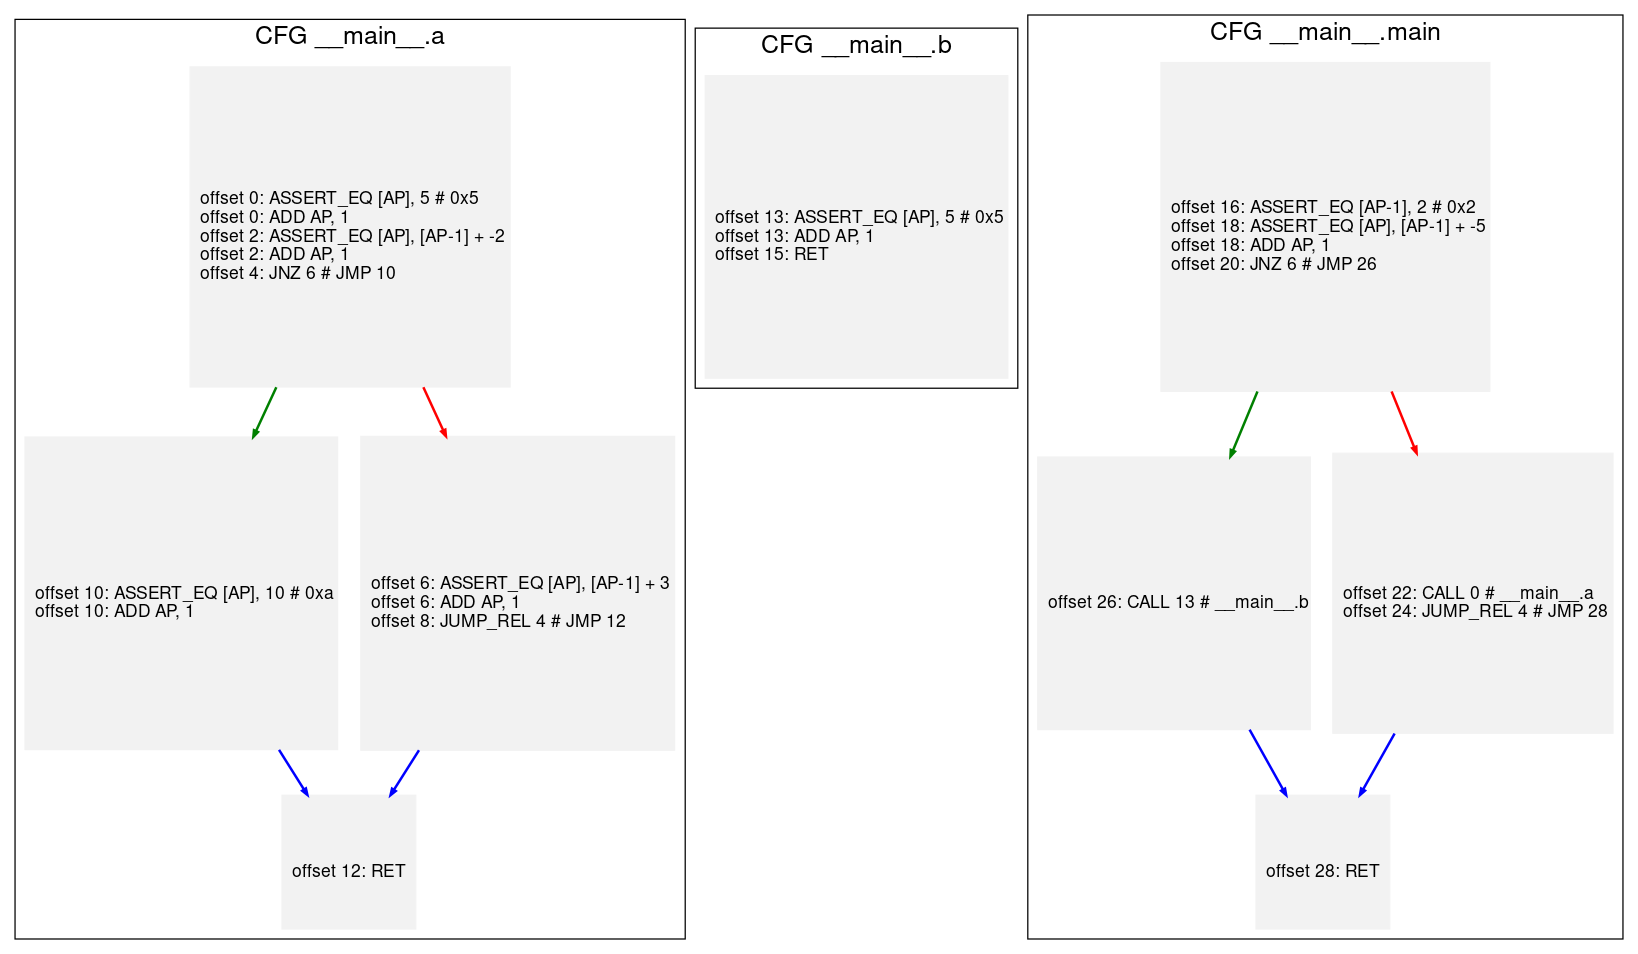
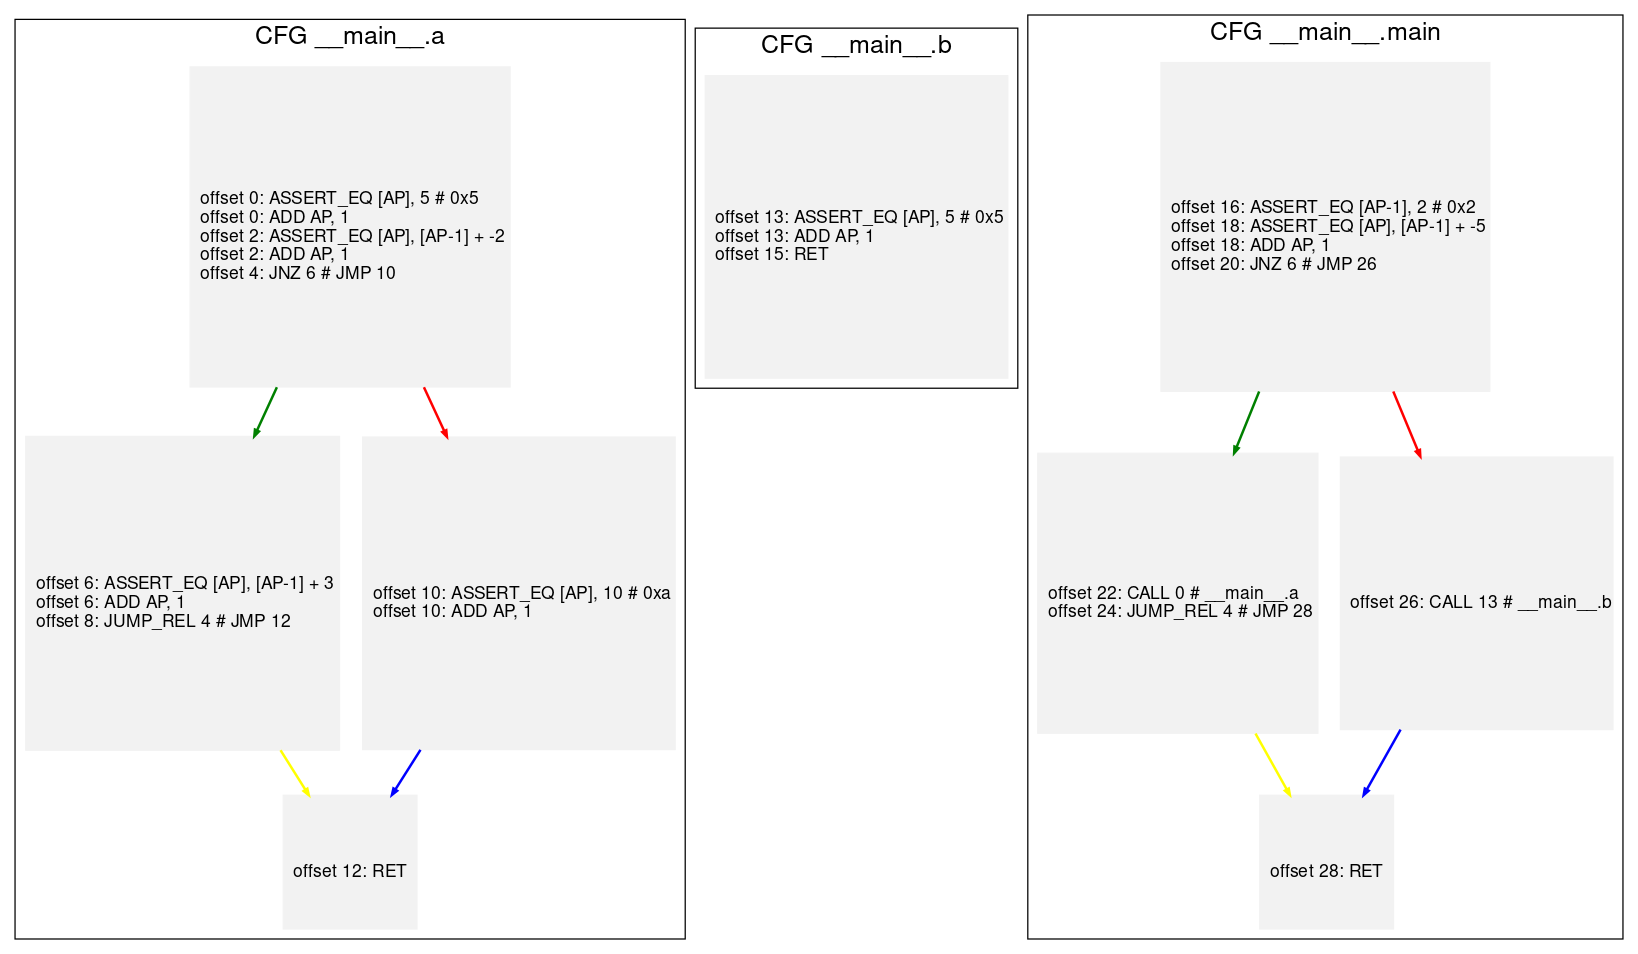
Minor fixes and README edit

diff --git a/tests/test.py b/tests/test.py
@@ -20,7 +20,7 @@ class TestDisassembler(unittest.TestCase):
         for test in all_test:
             try:
                 with open(test, "r") as file:
-                    disassembler = Disassembler([file])
+                    disassembler = Disassembler(file)
                     disassembler.print_disassembly()
                     filename = os.path.basename(file.name).split(".")[0]
                     format = "pdf"
@@ -46,7 +46,7 @@ class TestDisassembler(unittest.TestCase):
         test_cairo_return
         """
         with open("./tests/json_files/cairo_return.json", "r") as file:
-            disassembler = Disassembler([file])
+            disassembler = Disassembler(file)
         analytics = disassembler.analytics()
         self.assertEqual(analytics["entry_point"], ["__main__.main"])
         self.assertEqual(analytics["functions"], "2")
@@ -59,7 +59,7 @@ class TestDisassembler(unittest.TestCase):
         test_cairo_all_builtins
         """
         with open("./tests/json_files/cairo_all_builtins.json", "r") as file:
-            disassembler = Disassembler([file])
+            disassembler = Disassembler(file)
         analytics = disassembler.analytics()
         self.assertEqual(analytics["entry_point"], ["__main__.main"])
         self.assertEqual(analytics["functions"], "1")
@@ -72,7 +72,7 @@ class TestDisassembler(unittest.TestCase):
         test_cairo_direct_and_indirect_recursion
         """
         with open("./tests/json_files/cairo_direct_and_indirect_recursion.json", "r") as file:
-            disassembler = Disassembler([file])
+            disassembler = Disassembler(file)
         analytics = disassembler.analytics()
         self.assertEqual(analytics["entry_point"], ["__main__.main"])
         self.assertEqual(analytics["functions"], "5")
@@ -85,7 +85,7 @@ class TestDisassembler(unittest.TestCase):
         test_cairo_struct
         """
         with open("./tests/json_files/cairo_struct.json", "r") as file:
-            disassembler = Disassembler([file])
+            disassembler = Disassembler(file)
         analytics = disassembler.analytics()
         self.assertEqual(analytics["entry_point"], ["__main__.main"])
         self.assertEqual(analytics["functions"], "1")
@@ -97,7 +97,7 @@ class TestDisassembler(unittest.TestCase):
     def test_cairo_puzzle(self):
         """test_cairo_puzzle"""
         with open("./tests/json_files/cairo_puzzle.json", "r") as file:
-            disassembler = Disassembler([file])
+            disassembler = Disassembler(file)
         analytics = disassembler.analytics()
         self.assertEqual(analytics["entry_point"], ["__main__.main"])
         self.assertEqual(analytics["functions"], "18")
@@ -111,7 +111,7 @@ class TestDisassembler(unittest.TestCase):
         test_starknet_decorators3
         """
         with open("./tests/json_files/starknet_decorators3.json", "r") as file:
-            disassembler = Disassembler([file])
+            disassembler = Disassembler(file)
         analytics = disassembler.analytics()
         self.assertEqual(
             analytics["entry_point"],
@@ -138,7 +138,7 @@ class TestDisassembler(unittest.TestCase):
         test_starknet_l1_default
         """
         with open("./tests/json_files/starknet_l1_default.json", "r") as file:
-            disassembler = Disassembler([file])
+            disassembler = Disassembler(file)
         analytics = disassembler.analytics()
         self.assertEqual(
             analytics["entry_point"],
@@ -173,7 +173,7 @@ class TestDisassembler(unittest.TestCase):
     def test_starknet_get_code_l2_dai_bridge(self):
         """test_starknet_get_code_l2_dai_bridge"""
         with open("./tests/json_files/starknet_get_code_l2_dai_bridge.json", "r") as file:
-            disassembler = Disassembler([file])
+            disassembler = Disassembler(file)
         analytics = disassembler.analytics()
         self.assertEqual(analytics["entry_point"], ["unknown_function"])
         self.assertEqual(analytics["functions"], "1")

diff --git a/thoth/app/cfg/cfg.py b/thoth/app/cfg/cfg.py
@@ -20,7 +20,7 @@ class Edge:
         Args:
             source (String): Offset of last instruction of the current block
             destination (String): Offset of first instruction of the following block
-            type (String): Type of the edge 
+            type (String): Type of the edge
         """
         self.source = source
         self.destination = destination
@@ -183,23 +183,27 @@ class CFG:
             # JNZ
             elif "JNZ" in instruction.pcUpdate:
                 current_basic_block.edges_offset.append(
-                    Edge(int(instruction.id), str(int(instruction.id) + imm), EDGE_CONDITIONAL_TRUE)
-                )
-                current_basic_block.edges_offset.append(
                     Edge(
                         int(instruction.id),
                         str(int(instruction.id) + int(2)),
-                        EDGE_CONDITIONAL_FALSE,
+                        EDGE_CONDITIONAL_TRUE,
+                    )
+                )
+                current_basic_block.edges_offset.append(
+                    Edge(
+                        int(instruction.id), str(int(instruction.id) + imm), EDGE_CONDITIONAL_FALSE
                     )
                 )
             # End of block
             elif i < (len(instructions) - 1):
-                if int(instructions[i + 1].id) in basic_blocks_starts:
+                if (
+                    int(instructions[i + 1].id) in basic_blocks_starts
+                    and phi_node_block is not None
+                ):
                     current_basic_block.edges_offset.append(
                         Edge(int(instruction.id), phi_node_block, EDGE_FALLTHROUGH)
                     )
             new_basic_block = False
-
         # Append the last basic block to the list
         list_basic_block.append(current_basic_block)
         self.set_basicblocks(list_basic_block)

diff --git a/thoth/app/arguments.py b/thoth/app/arguments.py
@@ -15,17 +15,20 @@ def parse_args() -> argparse.Namespace:
         formatter_class=argparse.ArgumentDefaultsHelpFormatter,
     )
 
-    # Use a JSON File
-    contract_subparser = parser.add_subparsers(help="Load cairo", dest="contract")
+    contract_subparser = parser.add_subparsers(
+        help="Load a cairo contract compilation artifact from a file or from starknet",
+        dest="contract",
+        required=True,
+    )
+    # Use a JSON file
     file = contract_subparser.add_parser("file")
     file.add_argument(
         "-path",
         "-path",
         "--path",
-        metavar="file",
         type=argparse.FileType("r"),
         required=True,
-        help="Cairo compiler JSON",
+        help="Cairo compiled JSON file",
     )
 
     # Download a contract from StarkNet mainnet/goerli
@@ -34,7 +37,6 @@ def parse_args() -> argparse.Namespace:
         "-a",
         "-address",
         "--address",
-        metavar="address",
         required=True,
         help="address of the contract e.g 0x111111111111111111111111111111111111111111111111111111111111111",
     )
@@ -42,7 +44,6 @@ def parse_args() -> argparse.Namespace:
         "-n",
         "-network",
         "--network",
-        metavar="network",
         choices=["mainnet", "goerli"],
         required=True,
         help="Network of the contract, mainnet or goerli",
@@ -108,7 +109,7 @@ def parse_args() -> argparse.Namespace:
         "--function",
         type=str,
         required=False,
-        help="Print disassembler/decompiler with color",
+        help="Analyse a specific function",
     )
     m.add_argument(
         "-a",

diff --git a/thoth/thoth.py b/thoth/thoth.py
@@ -25,14 +25,14 @@ def main() -> int:
     # Load compiled contract from starknet API
     else:
         try:
-            contract = StarkNet(args.network).get_full_contract(args.adress)
+            contract = StarkNet(args.network).get_full_contract(args.address)
         except Exception as e:
             print(e)
             exit()
         file = tempfile.NamedTemporaryFile()
         with open(file.name, "w") as f:
             f.write(contract)
-        filename = args.adress
+        filename = args.address
 
     disassembler = Disassembler(file, color=args.color)
 

diff --git a/thoth/app/decompiler/decompiler.py b/thoth/app/decompiler/decompiler.py
@@ -236,6 +236,7 @@ class Decompiler:
                             args += len(function.implicitargs)
                 args_str = ""
                 while args != 0:
+                    phi_node_variables = []
                     # Generate the phi function representation
                     if self.current_basic_block.is_phi_node and not self.first_pass:
                         phi_node_variables = self.get_phi_node_variables()

diff --git a/thoth/app/starknet/starknet.py b/thoth/app/starknet/starknet.py
@@ -34,6 +34,6 @@ class StarkNet:
         # If the contract does not exist
         if full_contract.status_code != 200:
             raise ValueError(
-                f"Thoth could not find contract at adress {contract_adress} in {self.network} network"
+                f"Thoth could not find contract at address {contract_adress} in {self.network} network"
             )
         return full_contract.text

diff --git a/README.md b/README.md
@@ -17,15 +17,22 @@ thoth -h
 
 ## Disassemble the contract's compilation artifact (json)
 
+#### From a JSON file
 
 ```sh
-thoth -f tests/json_files/cairo_array_sum.json
+thoth file -p tests/json_files/cairo_array_sum.json
+```
+
+#### From starknet 
+
+```sh
+thoth starknet --address 0x0323D18E2401DDe9aFFE1908e9863cbfE523791690F32a2ff6aa66959841D31D --network mainnet
 ```
 
 To get a pretty colored version:
 
 ```sh
-thoth -f tests/json_files/cairo_array_sum.json -color
+thoth -color file -p tests/json_files/cairo_array_sum.json
 ```
 <p align="center">
 	<img src="/images/thoth_disas_color.png"/>
@@ -33,14 +40,14 @@ thoth -f tests/json_files/cairo_array_sum.json -color
 
 To get a verbose version with more details about decoded bytecodes:
 ```sh
-thoth -f tests/json_files/cairo_array_sum.json -vvv
+thoth -vvv file -p tests/json_files/cairo_array_sum.json
 ```
 
 ## Decompile the contract's compilation artifact (json)
 
 
 ```sh
-thoth -f tests/json_files/cairo_test_addition_if.json --decompile
+thoth --decompile file -p tests/json_files/cairo_test_addition_if.json
 ```
 Example 1 with strings:
 <p align="center">
@@ -62,7 +69,7 @@ Example 2 with function call:
 The call flow graph represents calling relationships between functions of the contract. We tried to provide a maximum of information, such as the entry-point functions, the imports, decorators, etc.
 
 ```sh
-thoth -f tests/json_files/cairo_array_sum.json -call
+thoth -call -view True file -p tests/json_files/cairo_array_sum.json
 ```
 The output file (pdf/svg/png) and the dot file are inside the `output-callgraph` folder.
 If needed, you can also visualize dot files online using [this](https://dreampuf.github.io/GraphvizOnline/) website. The legend can be found [here](images/callgraph_legend.png).
@@ -79,13 +86,13 @@ A more complexe callgraph:
 
 For a specific output format (pdf/svg/png):
 ```sh
-thoth -f tests/json_files/cairo_array_sum.json -call -format png
+thoth -call -view True -format png file -p tests/json_files/cairo_array_sum.json
 ```
 
 ## Print the contract's control-flow graph (CFG)
 
 ```sh
-thoth -f tests/json_files/cairo_double_function_and_if.json -cfg
+thoth -cfg -view True file -p tests/json_files/cairo_double_function_and_if.json
 ```
 The output file (pdf/svg/png) and the dot file are inside the `output-cfg` folder.
 
@@ -95,12 +102,12 @@ The output file (pdf/svg/png) and the dot file are inside the `output-cfg` folde
 
 For a specific function:
 ```sh
-thoth -f tests/json_files/cairo_double_function_and_if.json -cfg -function "__main__.main"
+thoth -cfg -view True -function "__main__.main" file -p tests/json_files/cairo_double_function_and_if.json
 ```
 
 For a specific output format (pdf/svg/png):
 ```sh
-thoth -f tests/json_files/cairo_double_function_and_if.json -cfg -format png
+thoth -cfg -view True -format png file -p tests/json_files/cairo_double_function_and_if.json
 ```
 # F.A.Q
 
